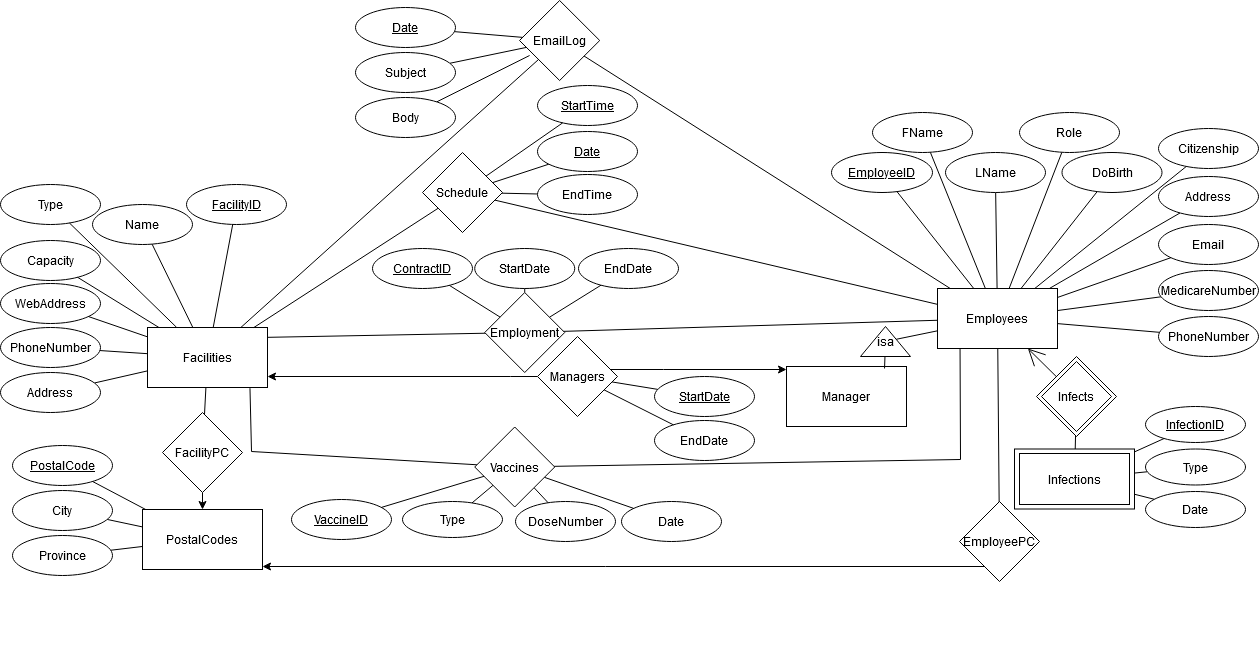
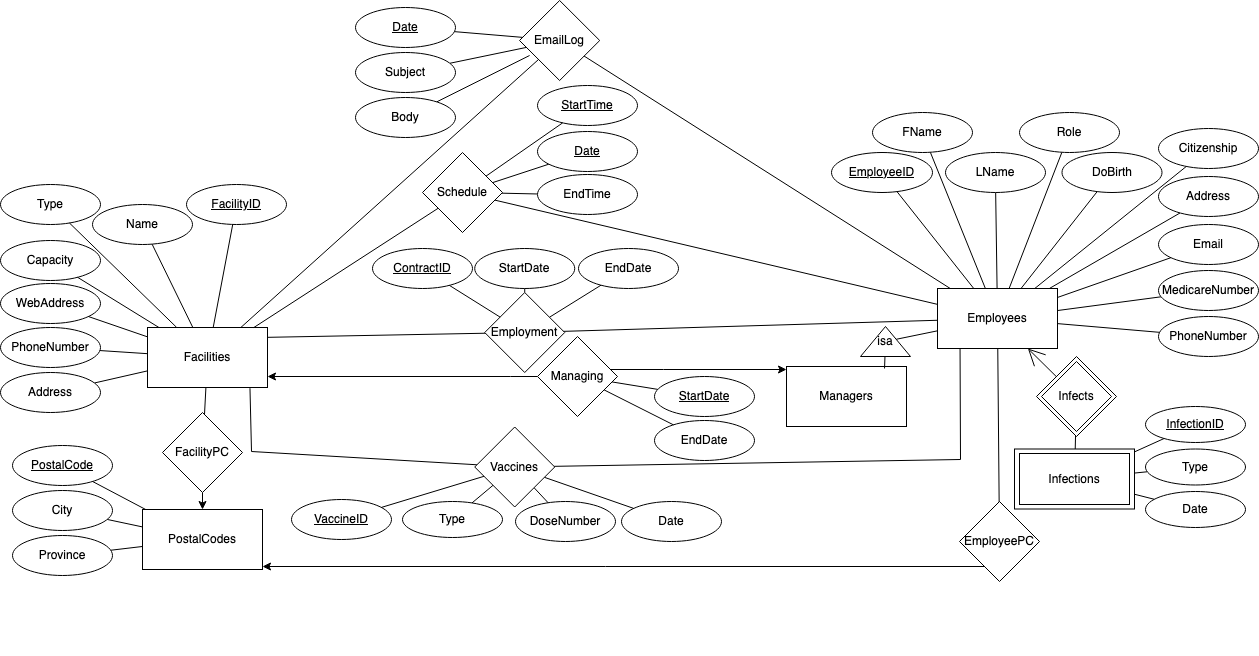
The switch from Manager to Managers and from Managers to Managing has been completed

diff --git a/pages/Managing/edit.php b/pages/Managing/edit.php
@@ -6,7 +6,7 @@ if (isset($_GET['FacilityID']) && isset($_GET['EmployeeID']) && isset($_GET['Sta
     $FacilityID = $_GET['FacilityID'];
     $EmployeeID = $_GET['EmployeeID'];
     $StartDate = $_GET['StartDate'];
-    $result = $conn->query("SELECT * FROM Managers WHERE FacilityID = $FacilityID AND EmployeeID = $EmployeeID AND StartDate = '$StartDate'");
+    $result = $conn->query("SELECT * FROM Managing WHERE FacilityID = $FacilityID AND EmployeeID = $EmployeeID AND StartDate = '$StartDate'");
     $row = $result->fetch_assoc();
 }
 if (
@@ -20,7 +20,7 @@ if (
     $StartDate = $_POST["StartDate"];
     $EndDate = $_POST["EndDate"];
 
-    $stmt = $conn->prepare("UPDATE Managers SET EndDate='$EndDate' WHERE FacilityID=$FacilityID AND EmployeeID=$EmployeeID AND StartDate='$StartDate'");
+    $stmt = $conn->prepare("UPDATE Managing SET EndDate='$EndDate' WHERE FacilityID=$FacilityID AND EmployeeID=$EmployeeID AND StartDate='$StartDate'");
 
     if ($stmt->execute()){
         header("Location: ./index.php");

diff --git a/pages/Managers/index.php b/pages/Managers/index.php
@@ -1,6 +1,6 @@
 <?php require_once '../../database.php'; 
     include '../header.php';
-    $statement = $conn->prepare('SELECT * FROM Manager, Employees WHERE Manager.EmployeeID = Employees.EmployeeID');
+    $statement = $conn->prepare('SELECT * FROM Managers, Employees WHERE Managers.EmployeeID = Employees.EmployeeID');
     $statement->execute();
     mysqli_stmt_bind_result($statement, $row['EmployeeID'], $row['EmployeeID2'], $row['FirstName'], $row['LastName'], $row['Role'], $row['DateOfBirth'], $row['MedicareNumber'], $row['Email'], $row['Citizenship'], $row['PhoneNumber'], $row['Address'], $row['PostalCode'])
 ?>

diff --git a/pages/Managing/delete.php b/pages/Managing/delete.php
@@ -6,7 +6,7 @@ if (isset($_GET['FacilityID']) && isset($_GET['EmployeeID']) && isset($_GET['Sta
     $EmployeeID = $_GET['EmployeeID'];
     $StartDate = $_GET['StartDate'];
 
-    $statement = $conn->prepare("DELETE FROM Managers WHERE FacilityID = ? AND EmployeeID = ? AND StartDate = ?");
+    $statement = $conn->prepare("DELETE FROM Managing WHERE FacilityID = ? AND EmployeeID = ? AND StartDate = ?");
     $statement->bind_param("iii", $FacilityID, $EmployeeID, $StartDate);
     $statement->execute();
 

diff --git a/pages/Managers/create.php b/pages/Managers/create.php
@@ -7,7 +7,7 @@ if (
         
     $EmployeeID = $_POST["EmployeeID"];
 
-    $stmt = $conn->prepare("INSERT INTO Manager (EmployeeID) VALUES ($EmployeeID)");
+    $stmt = $conn->prepare("INSERT INTO Managers (EmployeeID) VALUES ($EmployeeID)");
 
 
     if ($stmt->execute()){
@@ -33,6 +33,6 @@ if (
         <br>
         <button type="submit">Add</button><br><br>
     </form>
-    <a href="./">Back to Manager list</a>
+    <a href="./">Back to Managers list</a>
 </body>
 </html> 

diff --git a/pages/Managing/create.php b/pages/Managing/create.php
@@ -13,7 +13,7 @@ if (
     $StartDate = $_POST["StartDate"];
     $EndDate = $_POST["EndDate"];
 
-    $stmt = $conn->prepare("INSERT INTO Managers (FacilityID, EmployeeID, StartDate, EndDate) VALUES (?, ?, ?, ?)");
+    $stmt = $conn->prepare("INSERT INTO Managing (FacilityID, EmployeeID, StartDate, EndDate) VALUES (?, ?, ?, ?)");
     $stmt->bind_param("iiss", $FacilityID, $EmployeeID, $StartDate, $EndDate);
 
     if ($stmt->execute()){

diff --git a/pages/Managers/delete.php b/pages/Managers/delete.php
@@ -2,7 +2,7 @@
 
 if (isset($_GET['EmployeeID']) && !empty($_GET['EmployeeID'])) {
     $EmployeeID = $_GET['EmployeeID'];
-    $statement = $conn->prepare("DELETE FROM Manager WHERE EmployeeID = $EmployeeID");
+    $statement = $conn->prepare("DELETE FROM Managers WHERE EmployeeID = $EmployeeID");
     $statement->execute();
     header("Location: ./index.php");
 };

diff --git a/pages/Managing/index.php b/pages/Managing/index.php
@@ -23,7 +23,7 @@
             <th>Action</th>
         </tr>
         <?php
-            $result = $conn->query("SELECT * FROM Managers");
+            $result = $conn->query("SELECT * FROM Managing");
             while ($row = $result->fetch_assoc()) {
         ?>
         <tr>
